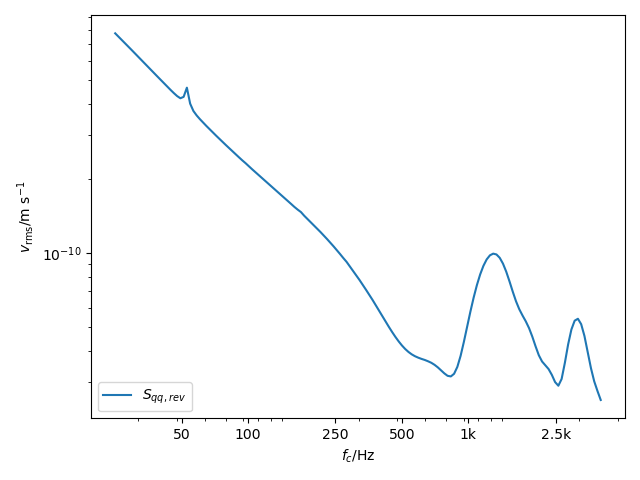
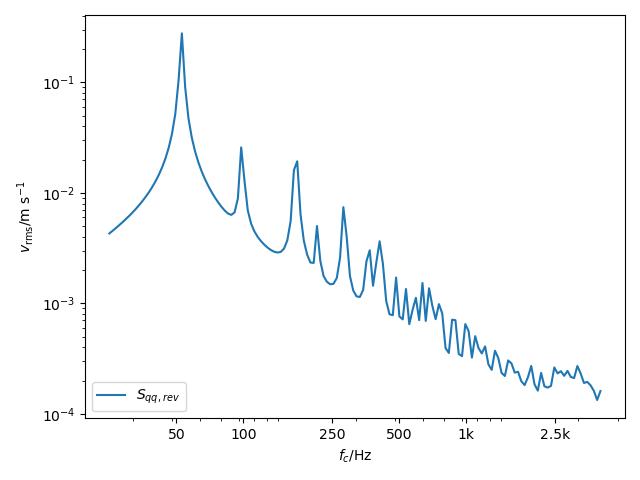
radiation_stiffness_wavelet corrected using new implementation of the bessel integral

diff --git a/pyva/systems/acousticRadiators.py b/pyva/systems/acousticRadiators.py
@@ -577,8 +577,10 @@ class HalfSpace:
 
         """
 
+        # Workaround for itj0y0 using Section 6.511 Eq. 6 of I.S. Gradshteyn and I.M. Ryzhik, Tables of intgrals
+        def itj0(x):
+            return x*spl.j0(x)+np.pi*x/2*(spl.j1(x)*spl.struve(0,x)-spl.j0(x)*spl.struve(1,x))
 
-        
         if uf.isscalar(omega):
     
             dist = np.array(dist).flatten()
@@ -589,7 +591,10 @@ class HalfSpace:
             kr = ka*dist[ix]
             
             fak = 2*np.pi**3*omega**3*self.fluid.rho0/(ks**4*self.fluid.c0)
-            bes,_ = spl.itj0y0(dist[ix]*ks)
+            
+            # @todo The current itj0y0 does not work - reuse when issue soves
+            #bes,_ = spl.itj0y0(dist[ix]*ks)
+            bes = itj0(dist[ix]*ks)
             res = np.zeros(dist.shape,dtype=np.complex128)
             
             res[ix]    = fak*(1j*np.sinc(kr/np.pi)-(np.cos(kr)-1+bes)/kr)
@@ -601,7 +606,9 @@ class HalfSpace:
             kr = ka*dist
             
             fak = 2*np.pi**3*omega**3*self.fluid.rho0/(ks**4*self.fluid.c0)
-            bes,_ = spl.itj0y0(dist*ks)
+            # @todo The current itj0y0 does not work - reuse when issue soves
+            #bes,_ = spl.itj0y0(dist[ix]*ks)
+            bes = itj0(dist[ix]*ks)
             res = np.zeros(omega.shape,dtype=np.complex128)
             
             if dist != 0:
@@ -645,7 +652,7 @@ class HalfSpace:
         
         return mesh
         
-    def radiation_stiffness_mesh(self,omega,mesh,method='piston'):
+    def radiation_stiffness_mesh(self,omega,mesh,method='wavelet'):
         """
         Acoustic radiation stiffness matrix of a regular mesh
                         
